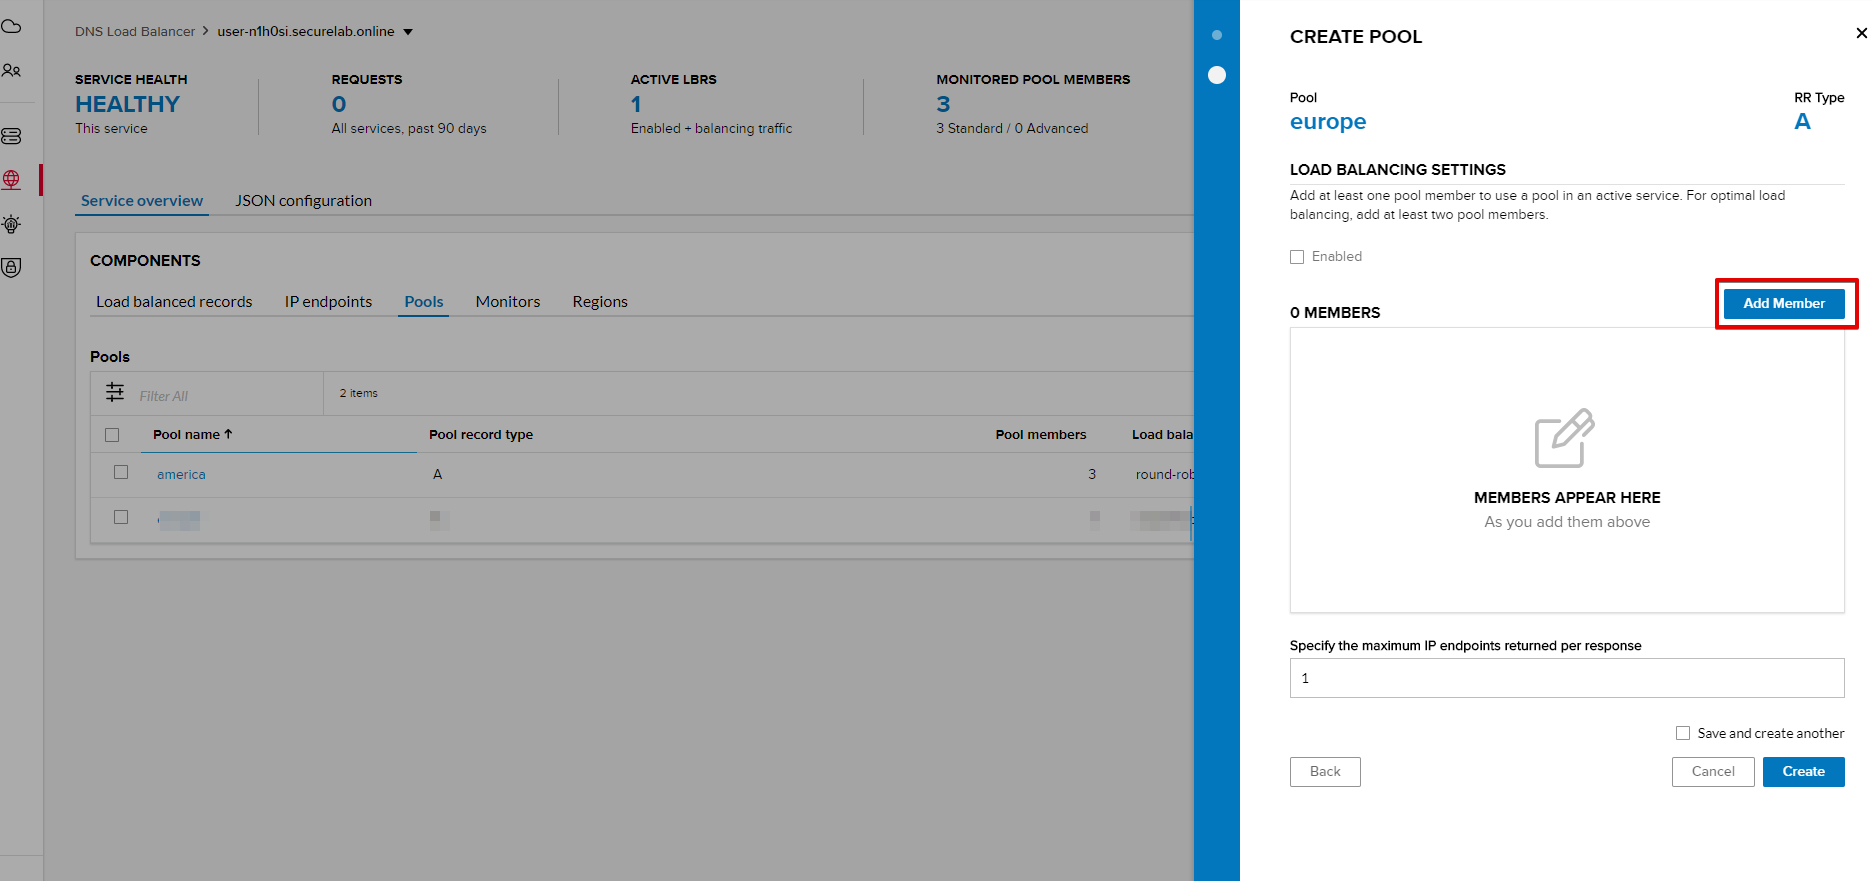
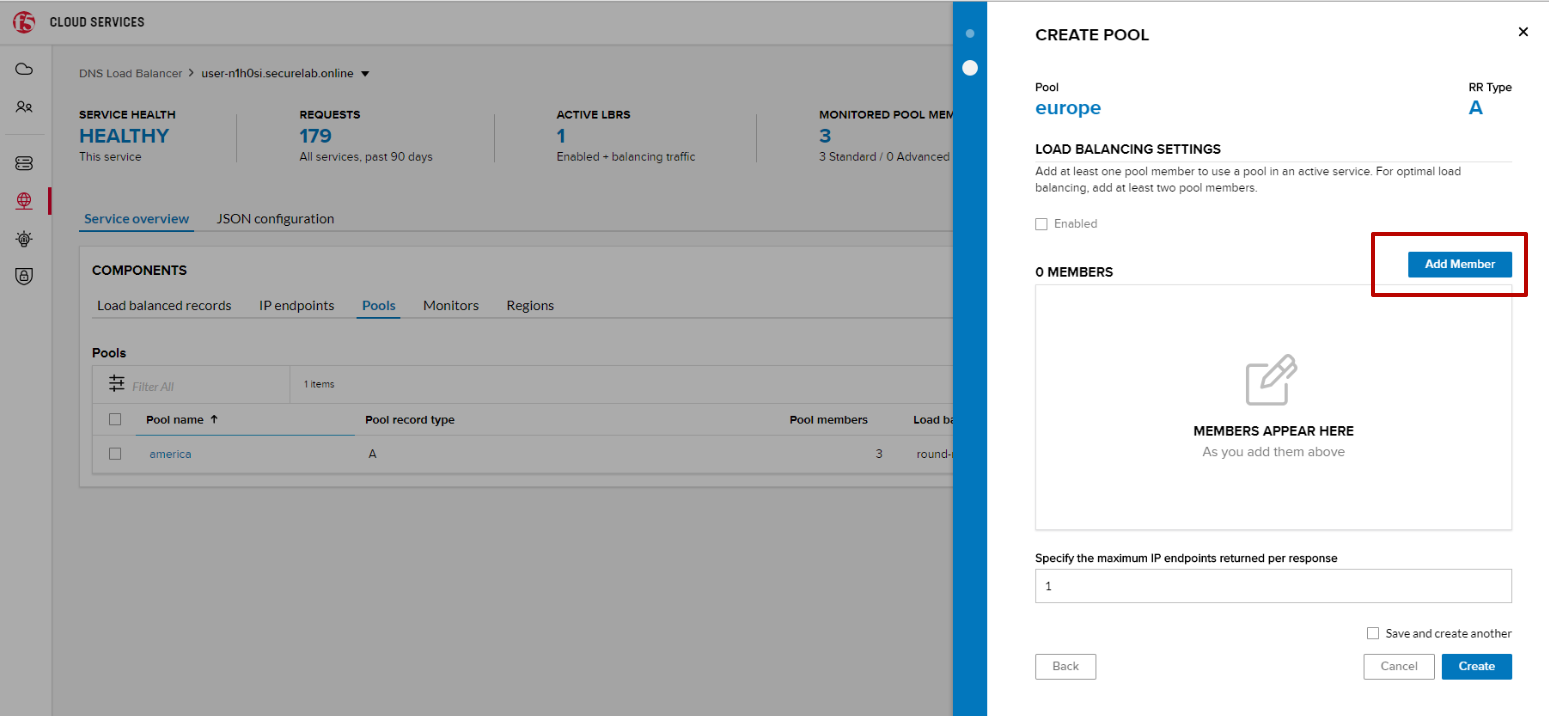
update screenshots

diff --git a/README.rst b/README.rst
@@ -615,7 +615,7 @@ Let's now create a pool and add a member to it.
 
    `1.` Go to the **Pools** tab and then click **Create**. 
   
-   .. figure:: _figures/24.png 
+   .. figure:: _figures/122.png
 
    `2.` Fill in "europe" name, choose "round-robin" method and define TTL "30". Then click **Next**.  
   
